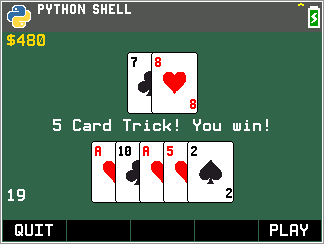
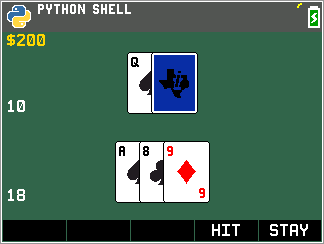
Blackjack updates

diff --git a/Blackjack/BLCKJACK.py b/Blackjack/BLCKJACK.py
@@ -39,6 +39,10 @@ card_sprites = {0: [0, 100936449, 1543897345, 67513089, 67644729, 108669697], 1:
 back_palette = [929184, 16777215, 0]
 back_sprites = {0: [0, 134753337], 1: [1, 100936706, 67513857, 67633722, 1510474553, 142093313, 142224129], 2: [2, 100805377, 67371265, 1543766273, 33947962, 1577451834, 75104513, 1551499521, 108800769]}
 
+# TI_Logo.png: 30 x 29
+TI_Logo_palette = [0]
+TI_Logo_sprites = {0: [0, 302122761, 671482626, 537657604, 571343107, 638452483, 772670979, 303302154, 638845445, 840172554, 605422340, 35130882, 806880776, 505020679, 773457926, 68947713, 740034821, 102632705, 605946372, 136317953, 572523267, 170003202, 706873858, 203819521, 774244097, 203948801, 438829570, 774374401, 506069253, 774505217, 472648194, 540018433, 540149251, 574096897, 641336321]}
+
 # club.png: 25 x 25
 club_palette = [2301728]
 club_sprites = {0: [0, 402785299, 335808274, 302385425, 268962566, 638320899, 605290765, 202772489, 135795720, 102372871, 68949766, 840958210, 103287041, 438831873, 136972033, 438960645, 539625217, 204210945, 405537540, 640418305, 506331395, 372245762, 338822913]}
@@ -138,6 +142,7 @@ def prepare_sprite(palette, sprs):
 
 _card      = prepare_sprite(card_palette, card_sprites)
 _back      = prepare_sprite(back_palette, back_sprites)
+_logo      = prepare_sprite(TI_Logo_palette, TI_Logo_sprites)
 _club      = prepare_sprite(club_palette, club_sprites)
 _diamond   = prepare_sprite(diamond_palette, diamond_sprites)
 _heart     = prepare_sprite(heart_palette, heart_sprites)
@@ -168,7 +173,7 @@ def sprite_center(prepared):
 _card_cx, _card_cy = sprite_center(_card)
 # Offset to add to the card's (x, y) so each suit sprite lands centered on the card
 _suit_offsets = {}
-for _s in (_heart, _diamond, _club, _spade):
+for _s in (_logo, _heart, _diamond, _club, _spade):
     _sx, _sy = sprite_center(_s)
     _suit_offsets[id(_s)] = (_card_cx - _sx, _card_cy - _sy)
 
@@ -213,6 +218,7 @@ def draw_card(x, y, card_index):
 
 def draw_card_back_at(x, y):
     draw_sprite(x, y, _back)
+    draw_sprite_centered(x, y, _logo)
 
 
 def draw_hand(user, hand, count, hide_last=False):

diff --git a/README.md b/README.md
@@ -59,7 +59,7 @@ Classic Snake game. Navigate the snake to eat apples without hitting the walls o
 
 A fully-featured Blackjack game.
 
-![Blackjack screenshot](Screenshots/blackjack1.png)  ![Backjack screenshot2](Screenshots/blackjack2.png)
+![Blackjack screenshot](Screenshots/blackjack1.png) ![Backjack screenshot2](Screenshots/blackjack2.png) ![Backjack screenshot3](Screenshots/blackjack3.png)
 
 **Features**
 - Betting screen with balance tracking (starts at $500)
